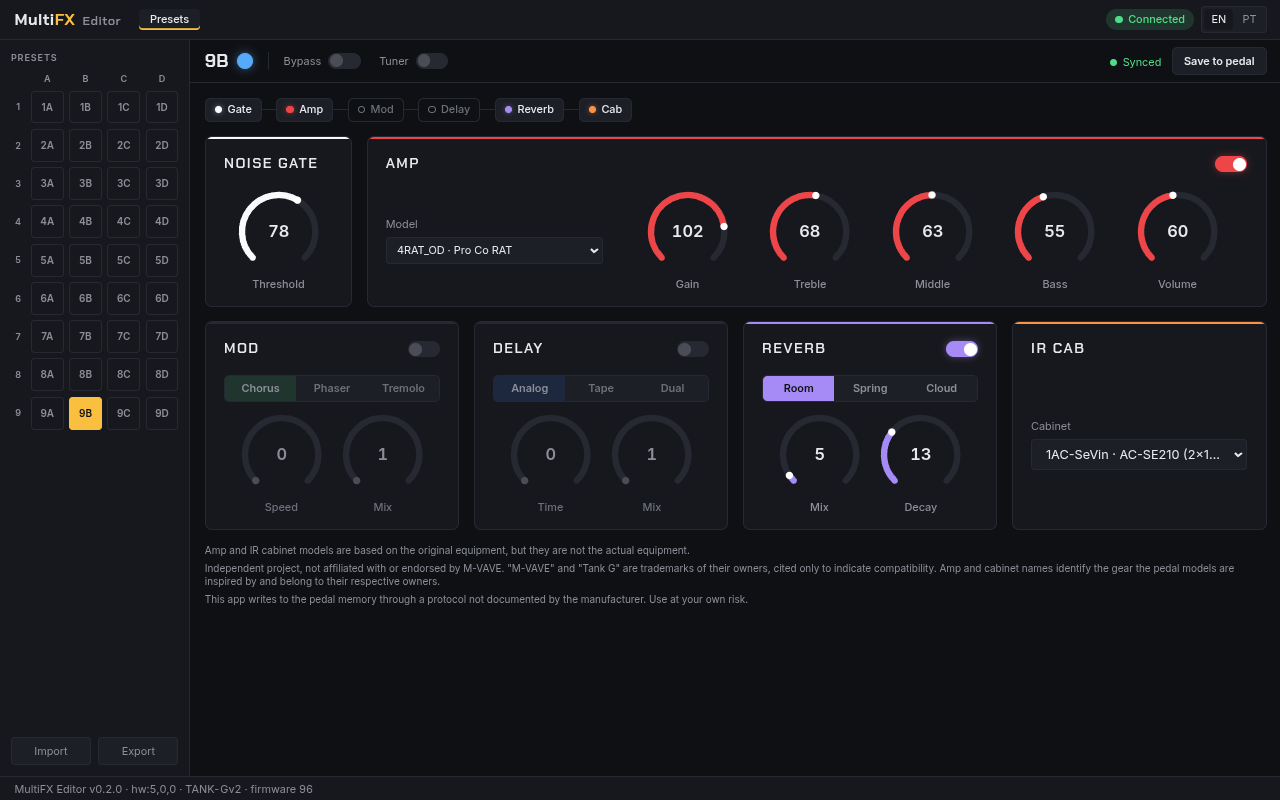
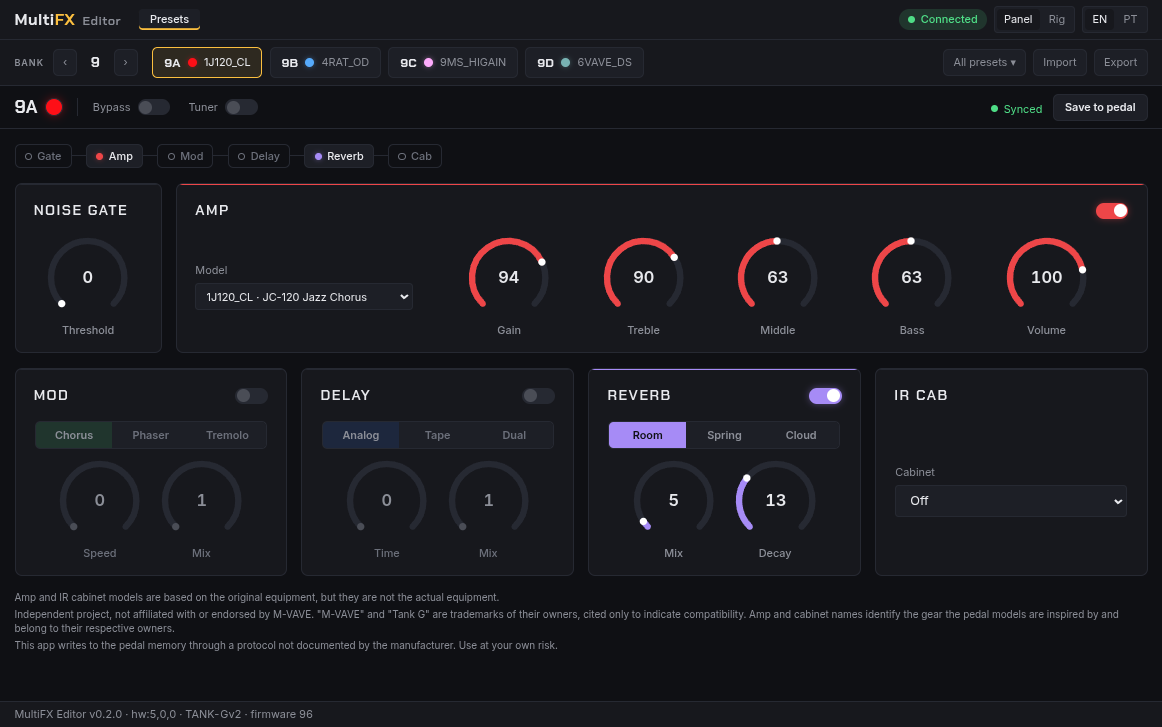
docs: capturas de tela da nova interface (Painel e Rig)

diff --git a/README.pt-BR.md b/README.pt-BR.md
@@ -4,7 +4,9 @@ Editor desktop para Linux do pedal multi-efeitos M-VAVE Tank G. Não oficial.
 
 [Read in English](README.md)
 
-![MultiFX Editor conectado ao pedal, editando o preset 9B](docs/images/screenshot-pt-br.png)
+![MultiFX Editor no modo Painel, editando o preset 9A](docs/images/screenshot-pt-br.png)
+
+![MultiFX Editor no modo Rig: a cadeia de sinal desenhada como pedaleira](docs/images/screenshot-rig-pt-br.png)
 
 > [!NOTE]
 > Projeto independente, não é afiliado nem endossado pela M-VAVE. "M-VAVE" e "Tank G" são marcas dos seus titulares, citadas apenas para indicar compatibilidade. Os nomes de amplificadores e gabinetes identificam os equipamentos que inspiram os modelos do pedal e pertencem aos seus titulares.
@@ -16,6 +18,7 @@ Editor desktop para Linux do pedal multi-efeitos M-VAVE Tank G. Não oficial.
 
 - 36 presets em 9 bancos (slots A/B/C/D), lidos do pedal e gravados nele
 - Edição dos módulos AMP, MOD, Delay, Reverb, IR Cab e Noise Gate
+- Dois modos de visualização: Painel (um card por módulo) e Rig (a cadeia de sinal desenhada como pedaleira)
 - Seletor de cor do LED
 - Importação e exportação de presets em JSON
 - Afinador e bypass controlados pelo app

diff --git a/README.md b/README.md
@@ -4,7 +4,9 @@ Linux desktop editor for the M-VAVE Tank G multi-effects pedal. Unofficial.
 
 [Leia em português](README.pt-BR.md)
 
-![MultiFX Editor connected to the pedal, editing preset 9B](docs/images/screenshot-en.png)
+![MultiFX Editor in Panel view, editing preset 9A](docs/images/screenshot-en.png)
+
+![MultiFX Editor in Rig view: the signal chain drawn as a pedalboard](docs/images/screenshot-rig-en.png)
 
 > [!NOTE]
 > Independent project, not affiliated with or endorsed by M-VAVE. "M-VAVE" and "Tank G" are trademarks of their owners, cited only to indicate compatibility. Amp and cabinet names identify the gear the pedal models are inspired by and belong to their respective owners.
@@ -16,6 +18,7 @@ Linux desktop editor for the M-VAVE Tank G multi-effects pedal. Unofficial.
 
 - 36 presets in 9 banks (A/B/C/D slots), loaded from and saved to the pedal
 - Editing of the AMP, MOD, Delay, Reverb, IR Cab and Noise Gate modules
+- Two views: Panel (one card per module) and Rig (the signal chain drawn as a pedalboard)
 - LED color picker
 - Preset import and export as JSON
 - Tuner and bypass controlled from the app
